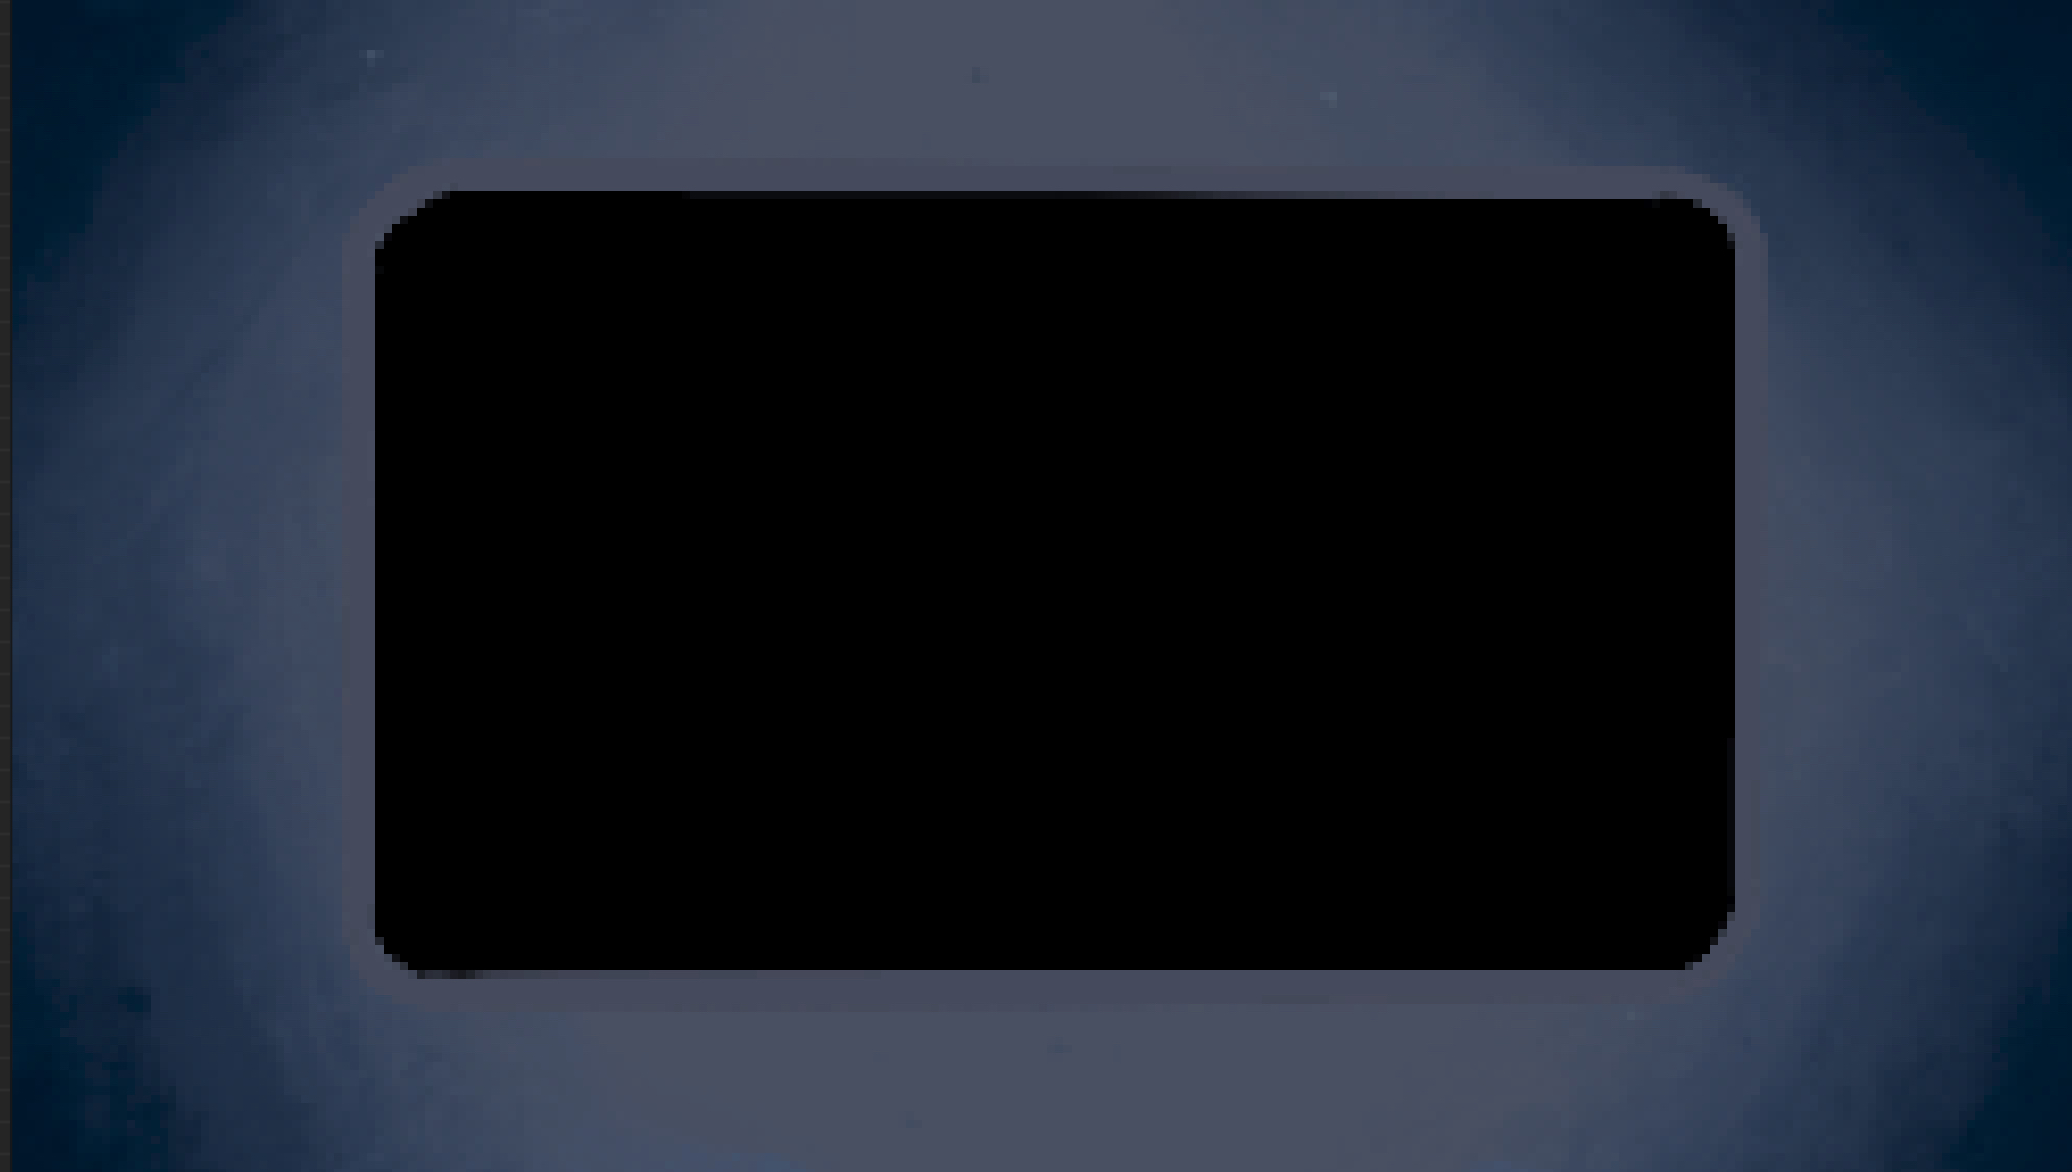
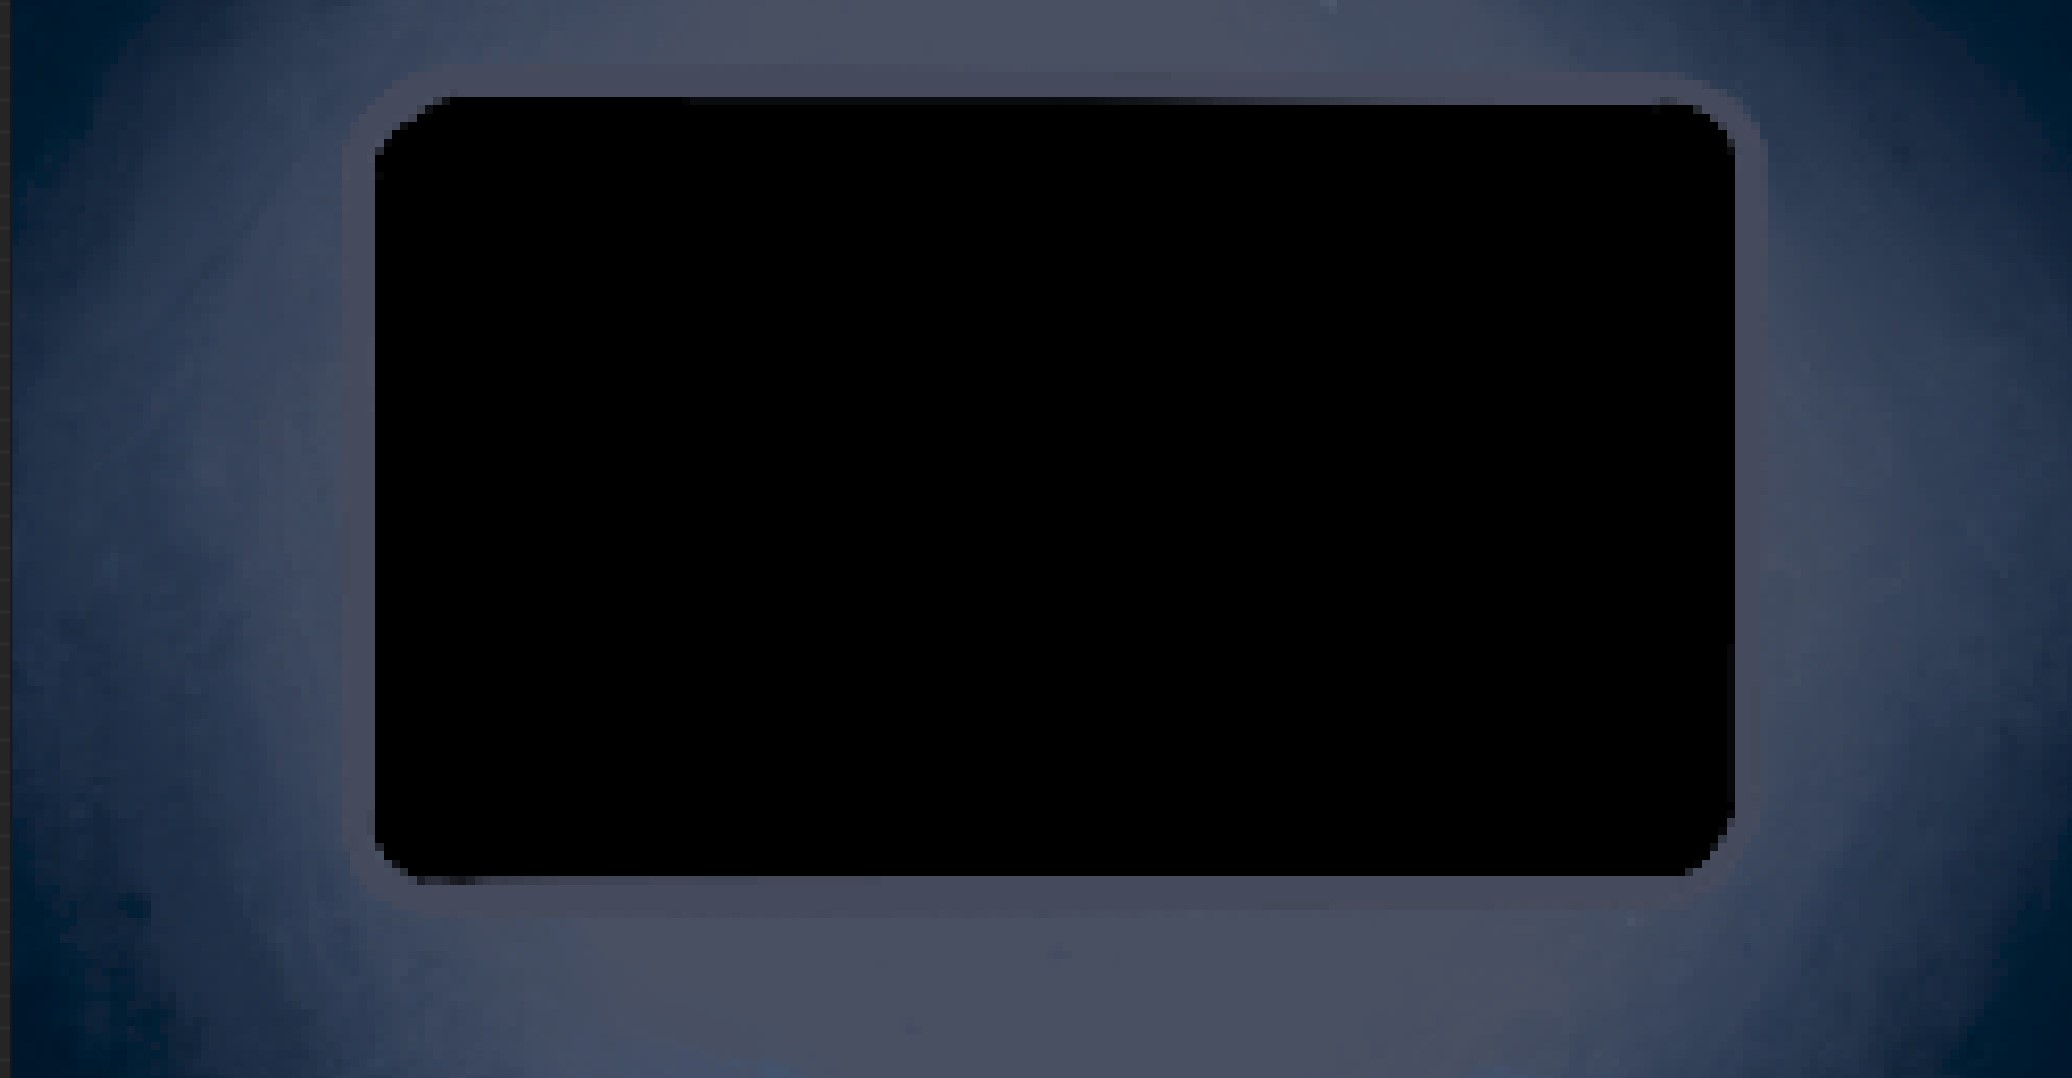
Changed amplitude and offset to fit graph in screen

Changed region(s): [[0.1544, 0.0612, 0.8649, 0.2143], [0.1853, 0.7653, 0.834, 0.8571]]

diff --git a/src/main/java/nz/ac/auckland/se206/controllers/minigames/MainRoomMinigameController.java b/src/main/java/nz/ac/auckland/se206/controllers/minigames/MainRoomMinigameController.java
@@ -14,7 +14,7 @@ public class MainRoomMinigameController extends MinigameController {
   @FXML Slider frequencySlider;
   @FXML Slider amplitudeSlider;
 
-  private final int yOffset = 165;
+  private final int yOffset = 190;
   private Polyline playerPolyline;
   private double targetAmplitude;
   private double targetFrequency;
@@ -97,9 +97,9 @@ public class MainRoomMinigameController extends MinigameController {
    * @return Polyline node
    */
   public Polyline createPolyline(double amplitude, double frequency, String colour) {
-    double[] points = new double[128];
+    double[] points = new double[100];
     // Calculate each coordinate of the polyline
-    for (int i = 0; i < 128; i += 2) {
+    for (int i = 0; i < 100; i += 2) {
       points[i] = i * 5;
       points[i + 1] = amplitude * Math.sin(points[i] * frequency) + yOffset;
     }
